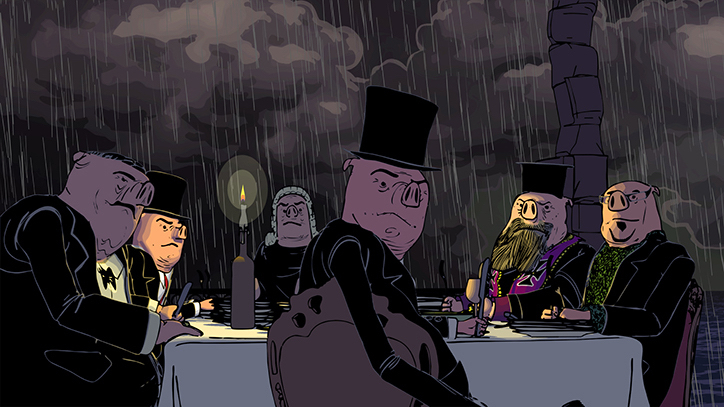
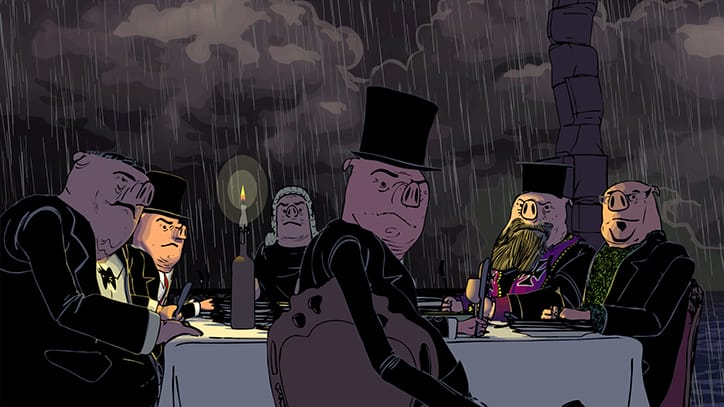
tweaking image path names in _posts

diff --git a/_posts/2019-01-31-mcqueen-2018-docu-review-the-king-of-yob-couture.md b/_posts/2019-01-31-mcqueen-2018-docu-review-the-king-of-yob-couture.md
@@ -2,8 +2,9 @@
 title: "The king of yob couture"
 excerpt: "'McQueen' is an ordinary film about an extraordinary man."
 image:
-  file: mcqueen-documentary-2018-og.jpg
-  path: /assets/img/mcqueen-documentary-2018-og.jpg
+  file: fbog-mcqueen-2018-docu.jpg
+  path: /assets/img/fbog-mcqueen-2018-docu.jpg
+  alt: "McQueen, 2018. Film still."
 date: 2019-01-31 23:40 -0800
 ---
 
